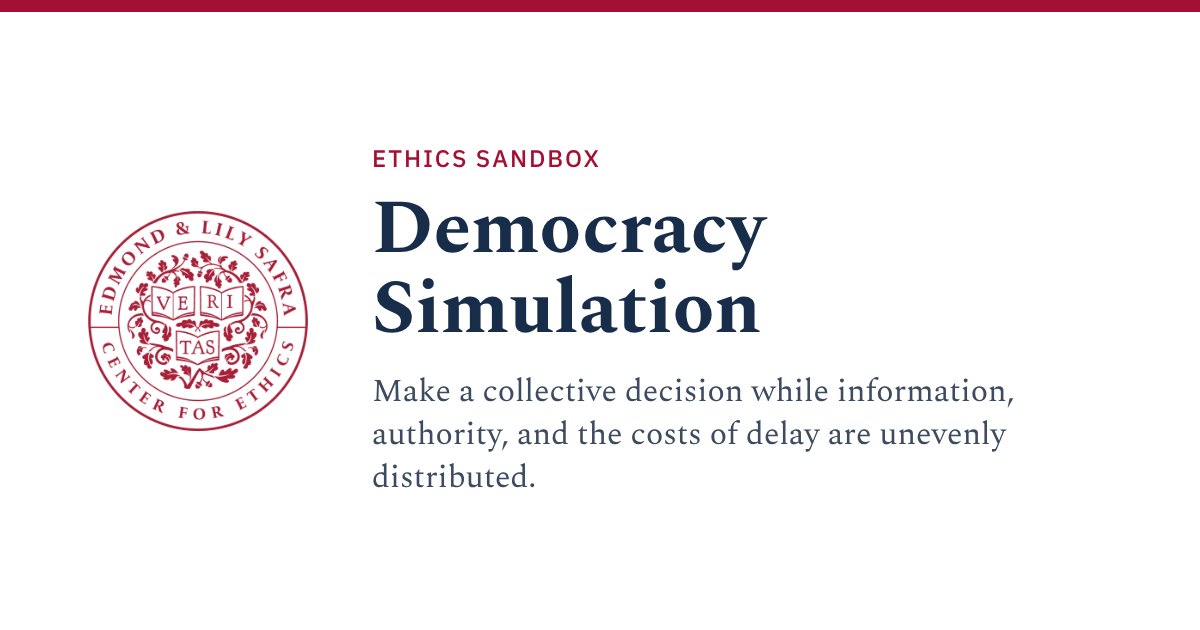
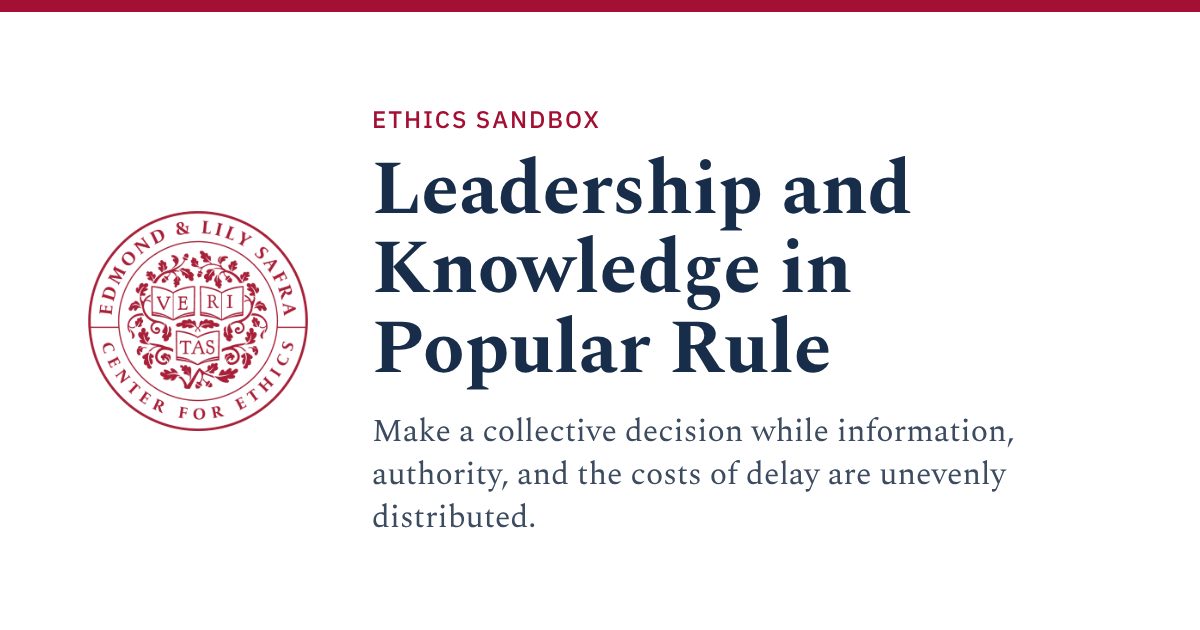
Rename the Democracy Simulation; link every page; drop unused content
From the author's answers of 2026-11-03:
- The exercise is now called "Leadership and Knowledge in Popular Rule"
  everywhere it is named: its catalog row, both game definitions, the
  facilitator guide, content/README.md, docstrings and tests. The slug
  (democracy-simulation) and the files keep their names. Both social
  preview images are regenerated (the Value Cards one was stale too).
- No page is reachable only by its address: the landing footer links
  /health ("Status"); the style guide links /table-preview; each exercise
  page links its table on its own page (/games/<slug>/preview) and, where
  it has one, its printable deck (/exercises/<slug>/deck).
- The overview section takes its heading from a new `overview_heading`
  column: "The deck and the exercise" for Value Cards Trading.
- The session-shape, tensions and facilitator-notes CSVs and the
  `alongside` column, no longer shown, are deleted with their fields.

Claude-Session: https://claude.ai/code/session_01M3dVs7pB2kjbCxKgzJM3LA

diff --git a/client/tests/sessions.spec.ts b/client/tests/sessions.spec.ts
@@ -107,7 +107,7 @@ test("Value Cards Trading: four browsers, a drop and a rejoin, and a macro mid-d
   await expect(ines.page.locator("[data-status='connected']")).toBeVisible();
 });
 
-test("Democracy Simulation: a city of nine, a rejoin, and the role cards stay private", async ({
+test("Leadership and Knowledge in Popular Rule: a city of nine, a rejoin, and the role cards stay private", async ({
   browser,
 }) => {
   test.setTimeout(180_000);
@@ -124,7 +124,7 @@ test("Democracy Simulation: a city of nine, a rejoin, and the role cards stay pr
     await citizen.page.getByRole("button", { name: "Join" }).click();
   }
   await host.page.getByRole("button", { name: "Begin now" }).click();
-  await expect(host.page.getByText(/Democracy Simulation: running/)).toBeVisible();
+  await expect(host.page.getByText(/Leadership and Knowledge in Popular Rule: running/)).toBeVisible();
 
   await host.page.getByRole("button", { name: "Deal role cards" }).click();
   const mine = citizens[0]!.page.locator('.piece[data-zone-id*=":hand-seat-"]');

diff --git a/sandbox/web/templates/exercise.html b/sandbox/web/templates/exercise.html
@@ -60,7 +60,7 @@
 
       {% if exercise.overview %}
       <section class="site__section" id="premise">
-        {{ ui.section_rule("Premise") }}
+        {{ ui.section_rule(exercise.overview_heading or "Premise") }}
         <div class="prose">
           <p>{{ exercise.overview }}</p>
         </div>
@@ -101,6 +101,11 @@
             </div>
           </div>
         {% endif %}
+        <p class="prose">
+          {% if preview %}<a href="/games/{{ exercise.slug }}/preview">See the table on its own page</a>{% endif %}
+          {% if preview and has_deck %} · {% endif %}
+          {% if has_deck %}<a href="/exercises/{{ exercise.slug }}/deck">Print the cards</a>{% endif %}
+        </p>
       </section>
     </main>
   </body>

diff --git a/sandbox/web/templates/styleguide.html b/sandbox/web/templates/styleguide.html
@@ -243,6 +243,11 @@
           </div>
         </div>
       </section>
+
+      <section class="styleguide__section" aria-labelledby="harness-heading">
+        <h2 id="harness-heading">The table, without a room</h2>
+        <p class="prose"><a href="/table-preview">Table preview</a> replays a recorded session with no room behind it, for checking how the table draws.</p>
+      </section>
     </main>
   </body>
 </html>

diff --git a/sandbox/web/templates/index.html b/sandbox/web/templates/index.html
@@ -57,6 +57,7 @@
       <footer class="site__footer">
         <a href="/help">Help</a>
         <a href="/styleguide">Style guide</a>
+        <a href="/health">Status</a>
       </footer>
     </main>
     <script type="module" src="{{ url_for('static', path='/table/table.js') }}"></script>

diff --git a/sandbox/web/app.py b/sandbox/web/app.py
@@ -28,7 +28,7 @@ from starlette.exceptions import HTTPException as StarletteHTTPException
 from sandbox.content_loading import CONTENT_ROOT
 from sandbox.db import Room, init_db, session_scope
 from sandbox.games import EXERCISES, EXERCISES_BY_SLUG, GAMES, OPEN_ROOM_SLUG
-from sandbox.games.loader import IMAGE_SUFFIXES
+from sandbox.games.loader import IMAGE_SUFFIXES, Card, Game
 from sandbox.web.content import HELP_RECORDS, SITE_COPY
 from sandbox.web.debrief import router as debrief_router
 from sandbox.web.deps import get_session as get_session
@@ -238,25 +238,29 @@ async def exercise_detail(request: Request, slug: str) -> HTMLResponse:
             "canonical_url": f"{_public_base(request)}/exercises/{slug}",
             "og_image": f"{_public_base(request)}/static/og/{slug}.png",
             "preview": None if game is None else picture_of_table(game),
+            "has_deck": game is not None and bool(_printable_decks(game)),
         },
     )
+
+
+def _printable_decks(game: Game) -> list[tuple[Card, ...]]:
+    """The decks an exercise's print page shows.
+
+    A deck marked revealable: false is private for the whole session, so the
+    public page never prints it.
+    """
+    return [
+        game.decks[deck.id]
+        for deck in game.definition.components.decks
+        if deck.revealable and game.decks[deck.id]
+    ]
 
 
 @app.get("/exercises/{slug}/deck", response_class=HTMLResponse)
 async def exercise_deck(request: Request, slug: str) -> HTMLResponse:
     """Every card of an exercise's decks, laid out to print and cut out."""
     game = GAMES.get(slug)
-    # A deck marked revealable: false is private for the whole session, so
-    # the public page never prints it.
-    shown = (
-        []
-        if game is None
-        else [
-            game.decks[deck.id]
-            for deck in game.definition.components.decks
-            if deck.revealable and game.decks[deck.id]
-        ]
-    )
+    shown = [] if game is None else _printable_decks(game)
     if game is None or not shown:
         raise HTTPException(status_code=404, detail="That exercise has no deck.")
     return templates.TemplateResponse(

diff --git a/sandbox/games/content.py b/sandbox/games/content.py
@@ -12,10 +12,7 @@ from sandbox.content_loading import read_rows, rows_for_slug
 from sandbox.games.models import Exercise, LearningOutcome, PreviewCard
 
 EXERCISES_CSV = "site/exercises.csv"
-SESSION_SHAPE_CSV = "site/exercise_session_shape.csv"
-TENSIONS_CSV = "site/exercise_tensions.csv"
 LEARNING_OUTCOMES_CSV = "site/exercise_learning_outcomes.csv"
-FACILITATOR_NOTES_CSV = "site/exercise_facilitator_notes.csv"
 PREVIEW_ZONES_CSV = "site/exercise_preview_zones.csv"
 PREVIEW_CARDS_CSV = "site/exercise_preview_cards.csv"
 
@@ -38,17 +35,10 @@ def load_exercise(slug: str) -> Exercise:
         short_description=fields["short_description"],
         premise=fields["premise"],
         overview=fields["overview"],
+        overview_heading=fields["overview_heading"],
         group_size=fields["group_size"],
         running_time=fields["running_time"],
         facilitator=fields["facilitator"],
-        alongside=fields["alongside"],
-        session_shape=tuple(
-            row["text"] for row in rows_for_slug(SESSION_SHAPE_CSV, slug)
-        ),
-        tensions=tuple(row["text"] for row in rows_for_slug(TENSIONS_CSV, slug)),
-        facilitator_notes=tuple(
-            row["text"] for row in rows_for_slug(FACILITATOR_NOTES_CSV, slug)
-        ),
         preview_label=fields["preview_label"],
         preview_zones=tuple(
             row["label"] for row in rows_for_slug(PREVIEW_ZONES_CSV, slug)

diff --git a/tests/test_app.py b/tests/test_app.py
@@ -150,3 +150,24 @@ def test_exercise_page_leads_with_the_premise_and_shows_the_overview() -> None:
             assert exercise.overview in premise
         else:
             assert 'id="premise"' not in response.text
+
+
+def test_every_page_is_reachable_by_a_link() -> None:
+    client = TestClient(app)
+
+    landing = client.get("/").text
+    for href in ('href="/help"', 'href="/styleguide"', 'href="/health"'):
+        assert href in landing
+    assert 'href="/table-preview"' in client.get("/styleguide").text
+    for exercise in EXERCISES:
+        page = client.get(f"/exercises/{exercise.slug}").text
+        assert f'href="/games/{exercise.slug}/preview"' in page
+        assert f'href="/exercises/{exercise.slug}/deck"' in page
+        assert client.get(f"/exercises/{exercise.slug}/deck").status_code == 200
+
+
+def test_the_overview_sits_under_its_own_heading() -> None:
+    page = TestClient(app).get("/exercises/value-cards-trading").text
+
+    assert 'aria-label="The deck and the exercise"' in page
+    assert 'aria-label="Premise"' not in page

diff --git a/tests/test_debrief.py b/tests/test_debrief.py
@@ -347,7 +347,7 @@ def test_replay_is_for_the_facilitator_and_shows_public_or_every_face(
     assert "Every face is showing." in everything
 
 
-# -- Democracy Simulation ------------------------------------------------------------
+# -- Leadership and Knowledge in Popular Rule ------------------------------------
 
 PEOPLE = [
     "Ada",
@@ -527,7 +527,10 @@ def test_the_democracy_class_page_sets_democracies_and_oligarchies_apart(
 
         tables = [_context(log, aid, who) for aid in aids]
         group = ClassGroup(
-            id="class-1", kind=slug, title="Democracy Simulation", tables=tuple(aids)
+            id="class-1",
+            kind=slug,
+            title="Leadership and Knowledge in Popular Rule",
+            tables=tuple(aids),
         )
         sections = CLASS_DEBRIEFS[slug](
             ClassContext(game=GAMES[slug], group=group, tables=tables, final=log.final)

diff --git a/tests/test_content.py b/tests/test_content.py
@@ -13,9 +13,6 @@ def test_load_exercise_assembles_every_field() -> None:
 
     assert exercise == VALUE_CARDS_TRADING
     assert exercise.title == "Value Cards Trading"
-    assert len(exercise.session_shape) == 3
-    assert len(exercise.tensions) == 3
-    assert len(exercise.facilitator_notes) == 3
     assert len(exercise.preview_zones) == 3
     assert len(exercise.preview_cards) == 3
     assert exercise.preview_cards[0].title == "Freedom of inquiry"

diff --git a/sandbox/games/models.py b/sandbox/games/models.py
@@ -29,13 +29,10 @@ class Exercise:
     short_description: str
     premise: str
     overview: str
+    overview_heading: str
     group_size: str
     running_time: str
     facilitator: str
-    alongside: str
-    session_shape: tuple[str, ...]
-    tensions: tuple[str, ...]
-    facilitator_notes: tuple[str, ...]
     preview_label: str
     preview_zones: tuple[str, ...]
     preview_cards: tuple[PreviewCard, ...]

diff --git a/tests/test_games.py b/tests/test_games.py
@@ -12,8 +12,5 @@ def test_exercises_are_registered_by_unique_slug() -> None:
 
 def test_each_exercise_has_at_least_one_of_every_preview_field() -> None:
     for exercise in EXERCISES:
-        assert exercise.session_shape
-        assert exercise.tensions
-        assert exercise.facilitator_notes
         assert exercise.preview_zones
         assert exercise.preview_cards

diff --git a/sandbox/games/democracy_simulation/compose.py b/sandbox/games/democracy_simulation/compose.py
@@ -1,4 +1,6 @@
-"""Building the Democracy Simulation's card files, ``*_cards.csv``, from its sheets.
+"""Building the card files, ``*_cards.csv``, from the sheets.
+
+For Leadership and Knowledge in Popular Rule.
 
 The author edits ``roles.csv``, ``jobs.csv``, ``features.csv``,
 ``elite_sheets.csv`` and ``invitations.csv`` as spreadsheets. A card's back
